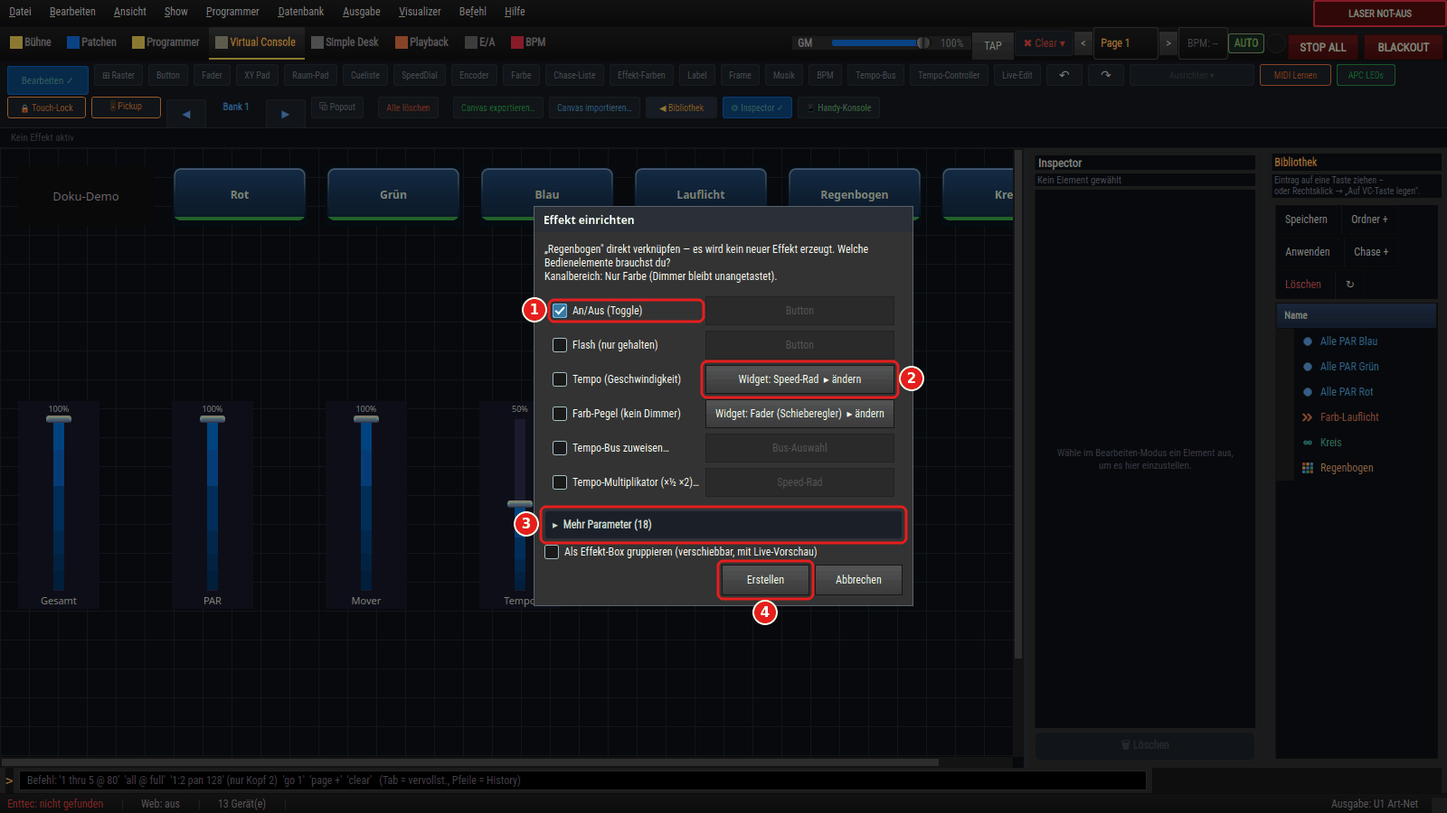
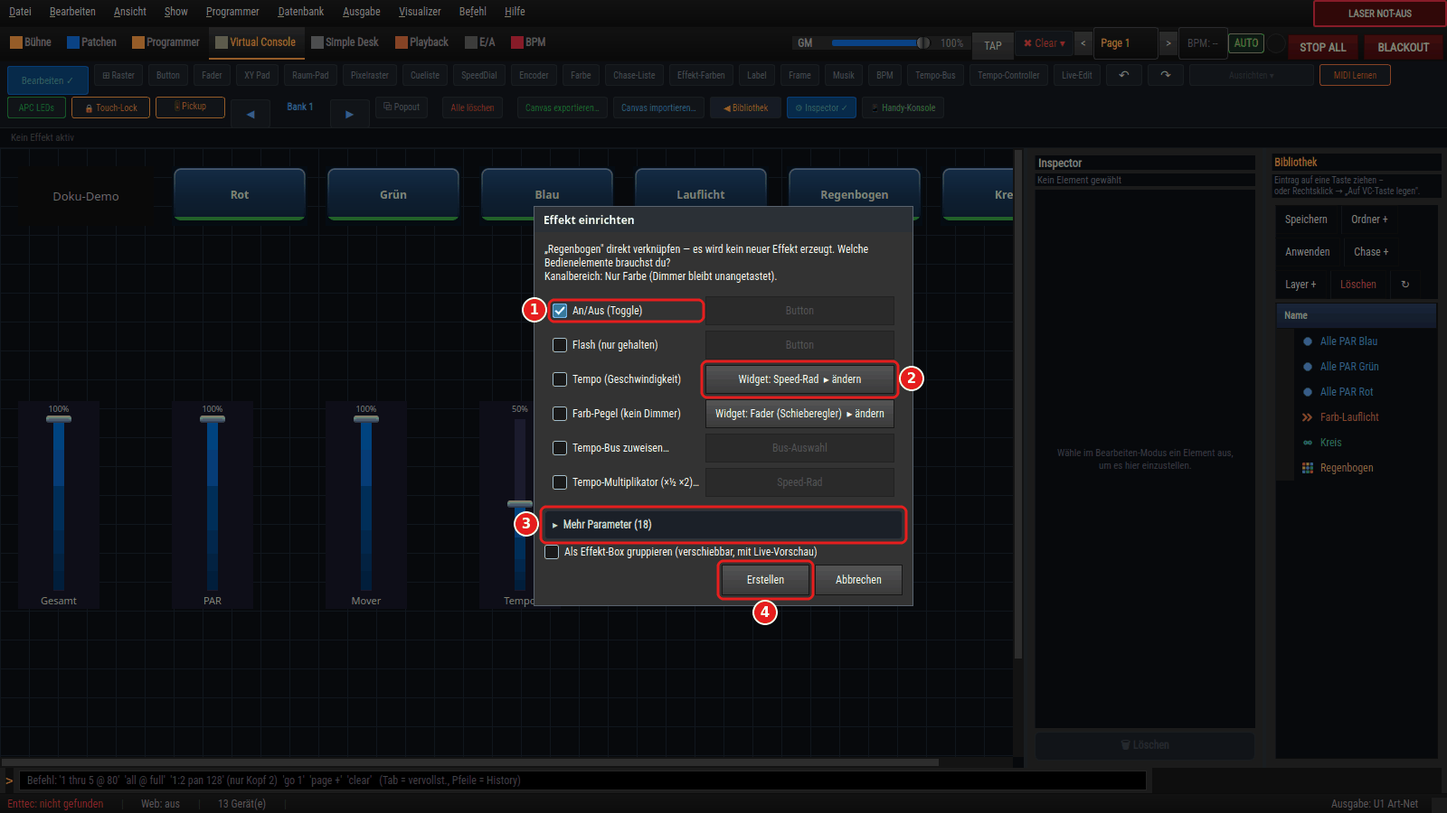
feat(doku): veraltete Anleitungsbilder gegen die heutige Oberflaeche abgeglichen (DOC-10)
- Renderer-Pruefung --alle: alle Szenen baubar; 10 Bilder mit echter
  UI-Aenderung neu gerendert (Toolbar-Knopf Pixelraster, WLED suchen /
  Matrix verteilen, Menue Befehl), Rauschen unter der Schwelle belassen
- 11 veraltete Handaufnahmen durch Renderer-Bilder ersetzt (Drop-Karte,
  Widget-Galerie, Konflikt-Karte, Button-Dialog, EFX-Editor, MIDI Teach),
  Altdateien entfernt, Bildtexte und Zitate nachgezogen
- neue Szene speed/05_tempo_speeds fuer das Tempo-Speeds-Panel
  (Bass 128, Drums 1/2, Lead 2x); Anleitung Speed um Auto-Sync ergaenzt
- Bericht docs/ANLEITUNGEN_AUDIT_2026-11-23.md mit Rest-Liste,
  Backlog-Fragment DOC-10 auf teils

diff --git a/tools/anleitungsbilder/szenen_speed.py b/tools/anleitungsbilder/szenen_speed.py
@@ -1,0 +1,86 @@
+"""DOC-10: Bilder fuer ``docs/anleitung_speed/`` (Speed-Dial, Tempo-Master).
+
+Neu erzeugen: ``venv/bin/python tools/anleitungsbilder.py speed``.
+
+Das Panel „Tempo-Speeds & Grand-Master“ war ein Handfoto vom 21.06.2026 und
+zeigte noch den Knopf „Aktualisieren“ unter der Bus-Tabelle (seit BPM-08
+entfallen) und keine Auto-Sync-Zeile. Die Szene legt genau die Busse an, die
+die Anleitung beschreibt — ``Bass`` (Master 128), ``Drums`` (Sub von Bass, ½)
+und ``Lead`` (Sub von Bass, 2×) — und raeumt sie danach wieder ab.
+"""
+from __future__ import annotations
+
+from anleitungsbilder.runner import Szene, SzenenFehler
+
+ZIEL = "docs/anleitung_speed/img"
+
+_BUSSE = ("Bass", "Drums", "Lead")
+
+
+def _mgr():
+    from src.core.engine.tempo_bus import get_tempo_bus_manager
+    return get_tempo_bus_manager()
+
+
+def _ansicht(ui):
+    view = getattr(ui.win, "_tempo_bus_view", None)
+    if view is None:
+        raise SzenenFehler("Tempo-Buses-Ansicht fehlt (BPM → Tempo-Buses)")
+    return view
+
+
+def _busse_anlegen(ui):
+    mgr = _mgr()
+    bass = mgr.ensure_bus("Bass")
+    bass.set_role("master")
+    bass.set_bpm(128.0)
+    for name, faktor in (("Drums", 0.5), ("Lead", 2.0)):
+        bus = mgr.ensure_bus(name)
+        bus.set_role("sub")
+        if not bus.set_parent(bass.bus_id):
+            raise SzenenFehler(f"{name} laesst sich nicht an Bass haengen")
+        bus.set_bus_multiplier(faktor)
+    view = _ansicht(ui)
+    view._refresh_speeds()
+    ui.pump(0.2)
+    # Die Tabelle zeigt nur rund fuenf Zeilen; die Busse A–D der Demo-Show
+    # stehen davor. Drums waehlen (fuellt die Editor-Zeile: Sub, folgt Bass,
+    # Faktor ½) und ans Ende rollen, damit Bass, Drums und Lead sichtbar sind.
+    tabelle = view._bus_table
+    for zeile in range(tabelle.rowCount()):
+        zelle = tabelle.item(zeile, 0)
+        if zelle is not None and zelle.text() == "Drums":
+            tabelle.selectRow(zeile)
+            break
+    else:
+        raise SzenenFehler("Bus „Drums“ fehlt in der Tabelle")
+    tabelle.scrollToBottom()
+    ui.pump(0.3)
+
+
+def _busse_entfernen(ui):
+    mgr = _mgr()
+    for name in reversed(_BUSSE):
+        if mgr.get(name) is not None:
+            mgr.remove_bus(name)
+    _ansicht(ui)._refresh_speeds()
+    ui.pump(0.1)
+
+
+def _panel(ui):
+    from PySide6.QtWidgets import QGroupBox
+    for box in _ansicht(ui).findChildren(QGroupBox):
+        if box.isVisible() and box.title().replace("&&", "&").startswith(
+                "Tempo-Speeds & Grand-Master"):
+            return box
+    raise SzenenFehler("Panel „Tempo-Speeds & Grand-Master“ nicht sichtbar")
+
+
+SZENEN = [
+    Szene("05_tempo_speeds", sektion="BPM", unterreiter="Tempo-Buses",
+          vorher=_busse_anlegen, ausschnitt=_panel, nachher=_busse_entfernen,
+          marken=[("Master anlegen", 1, "", "oben"),
+                  ("Übernehmen", 2, "", "oben")],
+          titel="Tempo-Speeds & Grand-Master: Bass (Master 128), Drums (½), "
+                "Lead (2×)"),
+]

diff --git a/docs/ANLEITUNGEN_AUDIT_2026-11-23.md b/docs/ANLEITUNGEN_AUDIT_2026-11-23.md
@@ -1,0 +1,114 @@
+# Anleitungs-Audit 2026-11-23 — veraltete Anleitungsbilder (DOC-10 Teil b)
+
+**Auftrag:** DOC-10 Teil (b): Anleitungsbilder gegen die heutige Oberfläche abgleichen,
+veraltete ersetzen, wo es sauber geht, den Rest als Liste festhalten.
+**Stand des Codes:** `main` vom 23.11.2026 (nach VCB-51 Pixelraster, OUT-82 DDP/WLED).
+
+## Bestand
+
+| Art | Anzahl | Wie geprüft |
+|---|---:|---|
+| Bilder unter `docs/` (ohne `_archiv/`) | 610 | — |
+| davon vom Renderer erzeugt (`bilder.json`, `tools/anleitungsbilder.py`) | 187 | `--alle --pruefen` in der Sandbox, abweichende Bilder neu gerendert und Pixel für Pixel verglichen |
+| davon Handaufnahmen, in einer Anleitung verlinkt | 246 | nach Ordner und Git-Datum sortiert, Stichproben gegen die frisch gerenderte Oberfläche |
+| davon Handaufnahmen, von keiner `.md` verlinkt | 177 | nur gezählt (siehe Ende) |
+
+**Live-Sichtung im abgeschotteten Fenster-Server (Xephyr :7):** Fenster-Server und App
+(Probelauf, Wegwerf-Datenordner, keine Ausgabe) starteten, die App blieb aber am Dialog
+„Testlizenz erforderlich" stehen. Die Lizenzdatei liegt nur im echten Datenordner, und der
+ist für diesen Auftrag tabu. Deshalb wurde stattdessen mit dem Renderer verglichen: Er baut
+dieselbe `MainWindow` mit denselben Widget-Klassen offscreen in der Sandbox auf. Für den
+Vergleich alt ↔ heute reicht das. Ob die beschriebenen Klickwege wirklich gehen (Robins
+Vorgabe vom 31.08.), prüft das nicht. Das bleibt für eine Runde mit Lizenz im Wegwerf-Ordner
+offen.
+
+## 1. Renderer-Bilder
+
+`venv/bin/python tools/anleitungsbilder.py --alle --pruefen`: **alle Szenen baubar**,
+108 Bilder „wie im Repo", **37 „weicht ab"**, die 3D-Szenen offscreen übersprungen (GPU).
+Die 37 wurden in einen Wegwerf-Ordner gerendert und Pixel für Pixel mit dem Repo-Stand
+verglichen. Die meisten Abweichungen liegen unter 0,1 % und betreffen nur das Leuchten
+von Lampen oder blinkende Taktanzeigen. Das ist **kein** neuer Inhalt, deshalb bleiben
+diese Bilder stehen (Regel des Werkzeugs: unter 0,05 % bleibt die alte Datei).
+
+**Echte Änderungen gab es nur hier, alle neu gerendert:**
+
+| Bild | Anleitung | Stand | Befund | erledigt/offen |
+|---|---|---|---|---|
+| `anleitung_vc/img/02_bearbeiten_modus.png` | ANLEITUNG_VC | 17.11. | neuer Toolbar-Knopf **„Pixelraster"** (VCB-51), Knopfreihe verschoben | erledigt (neu gerendert) |
+| `anleitung_vc/img/03_drop_karte.png` | ANLEITUNG_VC | 17.11. | Toolbar wie oben | erledigt |
+| `anleitung_vc/img/04_widget_galerie.png` | ANLEITUNG_VC | 17.11. | Toolbar wie oben | erledigt |
+| `anleitung_vc/img/05_konflikt_karte.png` | ANLEITUNG_VC | 17.11. | Toolbar wie oben | erledigt |
+| `anleitung_vc/img/06_button_einstellungen.png` | ANLEITUNG_VC | 17.11. | Toolbar wie oben | erledigt |
+| `anleitung_vc/img/09_midi_teach.png` | ANLEITUNG_VC | 17.11. | Toolbar wie oben, Bibliothek mit „Layer +" | erledigt |
+| `anleitung_buehnen_show/img_effekte/19_vc_button.png` | Bühnen-Show, Effekte | 17.11. | Toolbar wie oben | erledigt |
+| `anleitung_ausgabe_einrichten/img/05_universen.png` | Ausgabe einrichten | 17.11. | Ausgang „DDP (WLED)", Knöpfe **„WLED suchen"** und **„Matrix verteilen…"** (OUT-82) | erledigt |
+| `anleitung_erste_schritte/img/11_beenden.png` | Erste Schritte | 17.11. | Menü zeigte noch „Command" statt „Befehl", STOP ALL/BLACKOUT alte Optik | erledigt |
+| `anleitung_gruppen_matrizen/img/05_matrizen_zusammenlegen.png` | Gruppen & Matrizen | 17.11. | wie `11_beenden` | erledigt |
+
+Die Texte dieser Anleitungen beschreiben die neuen Knöpfe nicht. Das gehört zu den
+Items, die sie eingeführt haben (VCB-51, OUT-82), nicht zu diesem Bildabgleich.
+
+## 2. Handaufnahmen: ersetzt
+
+Alle Ersetzungen zeigen jetzt auf **Renderer-Bilder**. Diese Bilder rendert das Werkzeug
+bei jeder UI-Änderung neu, sodass sie nicht wieder veralten. Die alten Dateien wurden
+entfernt, weil nichts sie mehr verlinkt.
+
+| Bild (alt) | Anleitung | Stand | Befund | erledigt/offen |
+|---|---|---|---|---|
+| `anleitung_vc_elemente/img/04_drop_karte.png` | VC-Elemente | 21.06. | Zeilen „Helligkeit"/„Farben aendern" und „Cancel", Hinweistext alt, **Zeile „Als Effekt-Box gruppieren" fehlt** | erledigt → `anleitung_vc/img/03_drop_karte.png`; Text ergänzt (Zeilenname je Effekt, Effekt-Box) |
+| `anleitung_vc_elemente/img/05_widget_galerie.png` | VC-Elemente | 21.06. | „Cancel" statt „Abbrechen", alte Schrift | erledigt → `anleitung_vc/img/04_widget_galerie.png` |
+| `anleitung_vc_elemente/img/06_konflikt_karte.png` | VC-Elemente | 21.06. | „Cancel", alte Optik | erledigt → `anleitung_vc/img/05_konflikt_karte.png` |
+| `anleitung_vc_workflow/img/05_button_dialog.png` | VC-Workflow | 21.06. | Dialog mit „— MIDI-Bindung —", ohne „Ziel und Verhalten" | erledigt → `anleitung_vc/img/06_button_einstellungen.png` |
+| `anleitung_vc_workflow/img/17_drop_karte.png` | VC-Workflow | 21.06. | wie Drop-Karte oben | erledigt → `anleitung_vc/img/03_drop_karte.png` |
+| `anleitung_vc_workflow/img/18_widget_galerie.png` | VC-Workflow | 21.06. | wie Galerie oben | erledigt → `anleitung_vc/img/04_widget_galerie.png` |
+| `tutorial_matrix/img/17_drop_karte.png` | Tutorial Lichtshow | 21.06. | wie Drop-Karte oben; Text zitierte die alte Frage „… was soll dieser Effekt können?" | erledigt → `anleitung_vc/img/03_drop_karte.png`; Zitat auf den heutigen Hinweistext |
+| `anleitung_efx/img/01_efx_editor.png` | EFX, EFFEKTE.md | 21.06. | unscharfer Ausschnitt, abgeschnittene Knöpfe („Nm", „Sta"), alte Optik | erledigt → `anleitung_buehnen_show/img_effekte/06_efx_form.png`; Bildtext angepasst |
+| `anleitung_apc_mapping/img/01_midi_teach.png` | APC-Mapping | 21.06. | alter Hinweistext („einen Fader bewegen"), graue Pads, „Cancel" | erledigt → `anleitung_vc/img/09_midi_teach.png` |
+| `anleitung_speed/panel.png` | Speed | 21.06. | Knopf „Aktualisieren" (seit BPM-08 weg), **keine Auto-Sync-Zeile** | erledigt → **neue Renderer-Szene** `speed/05_tempo_speeds` (`tools/anleitungsbilder/szenen_speed.py`: Bass 128, Drums ½, Lead 2×); Text um Auto-Sync ergänzt |
+| `anleitung_speed/img/04_konflikt_karte.png` | Speed | 21.06. | wie Konflikt-Karte oben | erledigt → `anleitung_vc/img/05_konflikt_karte.png` |
+
+## 3. Handaufnahmen: Rest (offen)
+
+„Stand" ist das letzte Git-Datum der Bilder im Ordner. Als **veraltet** gilt ein Bild, wenn
+eine Stichprobe eine sichtbare Abweichung von der heutigen Oberfläche zeigte. **Vermutlich
+veraltet** heißt: Das Bild stammt aus der Zeit vor VC3D-01 (14.07., plastische Tasten) bzw.
+vor der Menü-Umbenennung „Command" → „Befehl", wurde aber nicht einzeln angesehen.
+
+| Bilder | Anleitung | Stand | Befund | erledigt/offen |
+|---|---|---|---|---|
+| `anleitung_vc_smartbuild/04_drop_card_simple_crop.png`, `05_drop_card_subforms_crop.png`, `06_widget_gallery_crop.png` | VC Smart-Build | 21.06. | **veraltet**: Zeile „Helligkeit" statt „Dimmer-Pegel", „Cancel", keine Effekt-Box-Zeile, kein Hinweistext. Die Karten gehören zu bestimmten Effekten (Szene ohne Live-Parameter, Dimmer-Matrix), die die Doku-Demo nicht hat | offen: Renderer-Szene mit eigener Dimmer-Matrix |
+| `anleitung_vc_smartbuild/01_…`, `02_…`, `03_…` | VC Smart-Build | 21.06.–21.07. | vermutlich veraltet (alte VC-Optik) | offen |
+| `anleitung_vc_workflow/img/` (15 übrige) | VC-Workflow | 21.06.–30.09. | **veraltet**: `04_bearbeiten_toolbar.png` ohne „Pixelraster"; die Bilder vom 21.06. zeigen flache Tasten einer archivierten Show | offen: braucht eine nachgebaute Workflow-Show |
+| `anleitung_vc_elemente/img/01_alle_elemente.png`, `02_toolbar_alle_knoepfe.png` | VC-Elemente | 20./21.07. | **veraltet**: Toolbar ohne „Pixelraster" (der Index zählt 16 Toolbar-Typen, Pixelraster kommt dazu) | offen |
+| `anleitung_vc_widgets/img/` (42) | VC-Widgets | 21.06.–02.10. | Bereich am 03.08./31.08. abgeglichen; Stichprobe `dialog_VCButton.png`: Zeile **„LED am Pult zeigt den Zustand"** fehlt, sonst aktuell. Ein Pixelraster-Widget fehlt ganz | offen (gering), Pixelraster-Kapitel gehört zu VCB-51 |
+| `anleitung_ablaeufe/img/` (3) | Abläufe mischen | 21.06. | **veraltet**: flache Tasten, abgeschnittene Bibliothek; Show nicht im Repo | offen |
+| `anleitung_hochzeit_komplett/img/` (12 inkl. `mini_gruenes_lauflicht/`) | Hochzeit komplett | 29.06. | vermutlich veraltet (vor VC3D-01); Show nicht im Repo | offen |
+| `anleitung_test123_tempo/img/` (7), `anleitung_colorfade_vc/img/` (3), `anleitung_farb_fx_vc/img/` (1), `anleitung_matrix_effekte/img/` (2), `anleitung_moving_heads/img/` (2), `anleitung_farbchase/` (5), `anleitung_dimmermatrix/` Handbilder (3), `anleitung_farbmatrix/img/` (1) | je Ordner | 21.–28.06. | vermutlich veraltet (alte VC- bzw. Editor-Optik, archivierte Shows) | offen |
+| `anleitung_patch_gruppen/img/01_patch.png`, `02_gruppen.png` | Patch & Gruppen | 21.06. | **veraltet**: Patch-Toolbar ohne „Bearbeiten…", „Mit Offset kopieren…", „Klonen…", „Tabellen-Import". Bild und Text beschreiben eine bestimmte Show (Adressen) | offen |
+| `anleitung_speed/dial_master.png`, `dial_sub.png` | Speed | 21.06. | vermutlich veraltet (vor VC3D-01) | offen |
+| `anleitung_bpm_manager/img/` (11) | BPM-Manager, BPM-Generator | 16.09.–02.10. | Stichprobe `tempo_buses.png`: Inhalt aktuell, **Kopfzeile alt** (Menü „Command", BPM „127,6", kein LASER NOT-AUS) | offen (gering) |
+| `_walkthrough/multiplier/` (8) | Multiplikator-Dial | 21.06.–21.07. | vermutlich veraltet (alte Optik) | offen |
+| `images/` (11) | APC-Seitenübersicht, Neue Demo | 08.–15.06. | vermutlich veraltet; ältester Bestand | offen |
+| `tutorial_matrix/gif/`, `web/` (24) | Tutorial Lichtshow, EFFEKTE, EFX, Farbmatrix | 15.06.–21.07. | vermutlich veraltet; `web/` sind Browser-Aufnahmen der Web-Oberfläche | offen |
+| `anleitung_komplettshow_2026/` (26) | Komplettshow | 30.09. (ein GIF 21.06.) | nach den Oktober-Änderungen nicht einzeln geprüft; Kopfzeilen-Drift möglich | offen (gering) |
+| `anleitung_grosse_demo_2026/img/` (7), `anleitung_testshow_liveedit/bilder/` (7), `anleitung_programmer/`, `anleitung_speed_bpm/`, `anleitung_spider/` (je 1) | je Ordner | 01.07.–30.09. | nicht einzeln geprüft | offen |
+| `anleitung_geraete_bedienen/img/` (6), `anleitung_einmessen/img/` (1), `anleitung_fixture_generator/img/` (1), `anleitung_laser/` (3) | je Ordner | 28.09.–15.10. | jung, nicht einzeln geprüft | offen (gering) |
+| `anleitung_3d_geraete_ohne_rgb/img/` (4), `anleitung_3d_visualizer_2026/` (1), `img/fixture_gallery/` (13) | 3D | 12.07.–05.10. | 3D/WebGL: offscreen nicht darstellbar, nur am echten Bildschirm prüfbar | offen |
+
+## 4. Nicht verlinkte Bilder
+
+177 Handaufnahmen verlinkt keine `.md` (zum Beispiel Arbeitsstände, Rohaufnahmen und
+Bilder, die nur ein HTML einbindet). Sie wurden nicht gelöscht, weil manche aus HTML-Seiten
+oder Skripten heraus benutzt werden könnten. Ein Aufräumen wäre ein eigener Schritt.
+
+## Ergebnis
+
+- Renderer-Bilder: 10 mit echter Änderung neu gerendert. Die übrigen 27 Abweichungen sind
+  Rauschen, alle Szenen sind baubar.
+- Handaufnahmen: 11 veraltete Bilder ersetzt, alle durch Renderer-Bilder, eines davon über
+  eine neue Szene. 11 Altdateien entfernt.
+- Offen (Abschnitt 3): rund 230 Handaufnahmen. Schwerpunkt sind Ordner aus der Zeit vor
+  dem 14.07., deren Shows nicht im Repo liegen. Sie lassen sich nur über nachgebaute
+  Renderer-Shows oder eine Live-Runde mit Lizenz im Wegwerf-Ordner erneuern.

diff --git a/docs/anleitung_vc_elemente/ANLEITUNG_VC_ELEMENTE.md b/docs/anleitung_vc_elemente/ANLEITUNG_VC_ELEMENTE.md
@@ -49,18 +49,21 @@ baut dir dann das passende Bedien-Element praktisch von selbst.
 
 - **Drop auf eine freie Stelle** → es öffnet sich die Karte **„Effekt einrichten"**
   (Fenster). Sie zeigt den Hinweis *„… direkt verknüpfen — es wird kein neuer Effekt erzeugt. Welche Bedienelemente brauchst du?"* und **je Aspekt eine
-  ankreuzbare Zeile** („An/Aus (Toggle)", „Tempo (Geschwindigkeit)", „Helligkeit",
+  ankreuzbare Zeile** („An/Aus (Toggle)", „Tempo (Geschwindigkeit)", „Helligkeit" — je nach
+  Effekt „Dimmer-Pegel" oder bei einer RGB-Matrix „Farb-Pegel (kein Dimmer)" —,
   „Farben ändern…", „Bewegung (XY-Feld)…", „Tempo-Bus zuweisen…",
   „Tempo-Multiplikator (×½ ×2)…" …). „An/Aus (Toggle)" ist vorangekreuzt. Pro Zeile gibt es — wo mehrere Bedien-Typen
   passen — den Knopf **„Widget: … ▸ ändern"**, der die **grafische Widget-Galerie** öffnet
   (Element per Bild wählen statt aus einer Liste). Ein Klick auf **„Erstellen"** legt für jedes Häkchen ein fertig
   verdrahtetes Widget an — alles in **einem** Undo-Schritt. (Selten gebrauchte Parameter
   liegen im **zugeklappten** Bereich **„Mehr Parameter (N)"**; in der Galerie wählst du eine
-  Kachel und bestätigst mit **OK** oder Doppelklick.)
+  Kachel und bestätigst mit **OK** oder Doppelklick. Unter den Zeilen steht außerdem
+  **„Als Effekt-Box gruppieren (verschiebbar, mit Live-Vorschau)"**: angekreuzt landen alle
+  erzeugten Elemente in einem gemeinsamen, verschiebbaren Kasten statt einzeln auf der Canvas.)
 
-  ![Drop-Karte „Effekt einrichten"](img/04_drop_karte.png)
+  ![Drop-Karte „Effekt einrichten"](../anleitung_vc/img/03_drop_karte.png)
 
-  ![Grafische Widget-Galerie](img/05_widget_galerie.png)
+  ![Grafische Widget-Galerie](../anleitung_vc/img/04_widget_galerie.png)
 
 - **Drop auf einen schon belegten Regler** → es erscheint die **Konflikt-Karte**
   „Regler ist schon belegt". Sie sagt dir, was der Regler bereits steuert, und bietet drei
@@ -68,7 +71,7 @@ baut dir dann das passende Bedien-Element praktisch von selbst.
   (beide Effekte am selben Regler, eine Gruppe / ein Tempo) oder **„Neues Widget daneben"**
   (lässt den Regler in Ruhe, legt ein eigenes Element an). Abbrechen lässt alles unverändert.
 
-  ![Konflikt-Karte „Regler ist schon belegt"](img/06_konflikt_karte.png)
+  ![Konflikt-Karte „Regler ist schon belegt"](../anleitung_vc/img/05_konflikt_karte.png)
 
 ### Rechtsklick-Menü (Kontextmenü)
 

diff --git a/backlog.d/DOC-10.md b/backlog.d/DOC-10.md
@@ -1,5 +1,9 @@
 ID: DOC-10
-Status: todo
-Status-Notiz: zurueck auf todo (22.11.2026): Teil (b) braucht keinen Menschen mehr — Live-Sichtung ueber den abgeschotteten Fenster-Server (Xephyr) ist moeglich; Sitzung A arbeitet ihn mit Agenten ab
+Status: teils
+Status-Notiz: Teil (b) Runde 23.11.2026: 10 Renderer-Bilder mit echter UI-Aenderung neu gerendert, 11 veraltete Handaufnahmen durch Renderer-Bilder ersetzt (neue Szene speed/05_tempo_speeds); Rest-Liste in docs/ANLEITUNGEN_AUDIT_2026-11-23.md
 
-Teil (b) — veraltete Anleitungsbilder gegen die heutige Oberflaeche — wurde als „braucht eine Sitzung mit Bildschirm“ zurueckgestellt. Seit QA-LIVE (17.11.2026) gibt es dafuer den abgeschotteten Fenster-Server mit echter App und echten Eingaben. Entscheidung (22.11.2026): A uebernimmt den Rest ohne den Projektinhaber.
+**Runde 23.11.2026 (Teil b):** Bestand 610 Bilder, 187 Renderer, 246 verlinkte Handaufnahmen, 177 unverlinkte. `tools/anleitungsbilder.py --alle --pruefen`: alle Szenen baubar, 37 weichen ab, davon 10 mit echtem neuem Inhalt (Toolbar-Knopf „Pixelraster“ VCB-51, „WLED suchen“/„Matrix verteilen…“ OUT-82, Menue „Befehl“) und neu gerendert; der Rest ist Leucht-/Takt-Rauschen. Ersetzt (Verweis auf Renderer-Bild, Altdatei entfernt): Drop-Karte, Widget-Galerie, Konflikt-Karte in VC-Elemente, VC-Workflow, Tutorial Lichtshow und Speed; Button-Dialog in VC-Workflow; EFX-Editor in EFX/EFFEKTE; MIDI Teach in APC-Mapping; Tempo-Speeds-Panel in Speed ueber die neue Szene `tools/anleitungsbilder/szenen_speed.py`.
+
+**Live-Sichtung:** Xephyr :7 und App als Probelauf liefen, die App bleibt aber ohne Lizenzdatei am Testlizenz-Dialog stehen; die Lizenz liegt nur im echten Datenordner. Abgleich deshalb ueber den Renderer (gleiche MainWindow offscreen in der Sandbox). Klickwege selbst sind damit nicht geprueft.
+
+**Offen (Rest-Liste im Audit, Abschnitt 3):** VC-Smart-Build-Karten (eigene Renderer-Szene mit Dimmer-Matrix noetig), VC-Workflow- und VC-Elemente-Bilder ohne „Pixelraster“, Patch-&-Gruppen-Bilder (alte Patch-Toolbar), Ordner aus der Zeit vor dem 14.07. mit archivierten Shows (Ablaeufe, Hochzeit, Test123, Colorfade, Farbchase, Matrix-Effekte, Moving Heads, tutorial_matrix, images), Kopfzeilen-Drift in BPM-Manager, 3D-Bilder nur am echten Bildschirm; Live-Runde mit Lizenz im Wegwerf-Ordner.

diff --git a/docs/anleitung_speed/ANLEITUNG_SPEED.md b/docs/anleitung_speed/ANLEITUNG_SPEED.md
@@ -53,17 +53,21 @@ BPM-Anzeige — das entspricht dem „Erscheinungsbild" in QLC+).
 
 Im **BPM**-Tab, Sub-Tab **„Tempo-Buses"**, gibt es das Panel **„Tempo-Speeds & Grand-Master"**:
 
-![Tempo-Speeds & Grand-Master Panel](panel.png)
+![Tempo-Speeds & Grand-Master Panel: Bass (Master 128), Drums (½ → 64), Lead (2× → 256); Drums ist gewählt](img/05_tempo_speeds.png)
 
 - **Grand-Master-Zeile** (oben): **scharf** schalten, **BPM** setzen, **Tap** —
   der Status rechts zeigt `aus` / `scharf`.
+- **Auto-Sync / Jetzt synchronisieren** (Zeile darunter): Auto-Sync hält alle Tempo-Buses
+  taktgleich; „Jetzt synchronisieren“ setzt bei allen Buses einmal den Downbeat neu.
 - **Bus-Tabelle:** zeigt alle Speeds (Default/Sound-BPM zuerst) mit
   **Rolle / Folgt / Faktor / BPM**. Im Bild: `Bass` (Master 128),
-  `Drums` (Sub von Bass, `½` → 64), `Lead` (Sub von Bass, `×2` → 256).
-- **Master anlegen / Löschen** (Name eingeben → „Master anlegen"). Es lassen
+  `Drums` (Sub von Bass, `½` → 64), `Lead` (Sub von Bass, `×2` → 256). Die Busse
+  `A`–`D` gibt es in jeder Show; die Tabelle rollt, wenn mehr Busse da sind.
+- **Master anlegen / Löschen** (Name eingeben → „Master anlegen“, ①). Es lassen
   sich beliebig viele Tap-Master anlegen.
 - **Editor-Zeile:** den gewählten Bus auf **Master/Sub** stellen, den **Master,
-  dem gefolgt wird**, und den **Faktor** wählen → **Übernehmen**.
+  dem gefolgt wird**, und den **Faktor** wählen → **Übernehmen** (②). Im Bild ist `Drums`
+  gewählt: Rolle Sub, folgt Bass, Faktor ½.
 
 So läuft es live im Programm (der Default-Bus folgt hier dem Sound):
 
@@ -88,7 +92,7 @@ Effekte einfach **auf den Speed-Dial ziehen**:
   - **Neues Widget daneben** — lässt den Regler in Ruhe und legt ein eigenes
     Bedien-Element daneben an.
 
-  ![Konflikt-Karte „Regler ist schon belegt"](img/04_konflikt_karte.png)
+  ![Konflikt-Karte „Regler ist schon belegt"](../anleitung_vc/img/05_konflikt_karte.png)
 
 Im Dialog **„Speed Dial Einstellungen"** lässt sich in der **„Steuert"**-Liste je
 gekoppeltem Effekt wählen, **welcher Parameter** gesteuert wird (je Zeile eine

diff --git a/docs/anleitung_vc_workflow/ANLEITUNG_VC_WORKFLOW.md b/docs/anleitung_vc_workflow/ANLEITUNG_VC_WORKFLOW.md
@@ -92,9 +92,9 @@ verdrahteten Knopfes führt LightOS dann durch den Aufbau:
   (beide Effekte am selben Regler, eine Gruppe/ein Tempo) oder **„Neues Widget daneben"**
   (lässt den Regler in Ruhe, legt ein eigenes Bedien-Element an).
 
-![Drop-Karte „Effekt einrichten"](img/17_drop_karte.png)
+![Drop-Karte „Effekt einrichten"](../anleitung_vc/img/03_drop_karte.png)
 
-![Widget-Galerie](img/18_widget_galerie.png)
+![Widget-Galerie](../anleitung_vc/img/04_widget_galerie.png)
 
 > Der in den folgenden Abschnitten gezeigte Weg über die **Bearbeiten-Toolbar** und das
 > **Doppelklick**-Einstellen bleibt weiterhin gültig — als **manueller Alternativweg**,
@@ -108,7 +108,7 @@ verdrahteten Knopfes führt LightOS dann durch den Aufbau:
    Canvas-Mitte. Bei Bedarf an die gewünschte Stelle **ziehen**.
 2. Die neue Taste **doppelklicken** → Dialog **„Button Einstellungen"**.
 
-![Button-Dialog](img/05_button_dialog.png)
+![Button-Dialog](../anleitung_vc/img/06_button_einstellungen.png)
 
 3. Feld **„Aktion:"** aufklappen und **„Funktion an/aus"** wählen (das ist der
    Umschalter — einmal drücken = an, nochmal = aus).

diff --git a/docs/tutorial_matrix/TUTORIAL_LICHTSHOW.md b/docs/tutorial_matrix/TUTORIAL_LICHTSHOW.md
@@ -251,13 +251,14 @@ leere Fläche** der Konsole ziehen – oder **Rechtsklick → „➡ Auf VC‑Ta
 
 **Was beim Ziehen passiert:** Lässt du den Effekt auf einer **leeren** Stelle
 (leeres Canvas/Pad) los, öffnet sich die **Drop‑Karte „Effekt einrichten"**. Sie
-fragt *„… — was soll dieser Effekt können?"* und zeigt je Aspekt eine
+fragt *„… direkt verknüpfen — es wird kein neuer Effekt erzeugt. Welche
+Bedienelemente brauchst du?"* und zeigt je Aspekt eine
 **Ankreuz‑Zeile**. **„An/Aus" (Toggle) ist bereits vorangekreuzt** – ein Klick
 auf **`Erstellen`** liefert also genau das **einfache An/Aus‑Pad**. Setzt du
 weitere Häkchen (z. B. Tempo, Helligkeit, Farbe), entstehen in **einem** Schritt
 mehrere fertig verdrahtete Widgets.
 
-![Drop‑Karte „Effekt einrichten"](img/17_drop_karte.png)
+![Drop‑Karte „Effekt einrichten"](../anleitung_vc/img/03_drop_karte.png)
 
 - **Widget‑Galerie:** Hat ein Aspekt mehrere passende Bedien‑Elemente, steht in
   der Zeile **„Widget: … ▸ ändern"** – ein Klick öffnet die grafische

diff --git a/docs/anleitung_efx/ANLEITUNG_EFX.md b/docs/anleitung_efx/ANLEITUNG_EFX.md
@@ -54,7 +54,7 @@ Sind **nur Spider** ausgewählt, ersetzt der Editor *Form & Geometrie* durch **B
 (Spider)** (Wippe, Welle, Zacken, Flackern, Puls) mit **Schwung (Tilt-Hub)**, **Mitte (Tilt)** und
 **Welle (Versatz)**.
 
-![EFX-Editor (Algorithmus Circle, Pan/Tilt-Hub)](img/01_efx_editor.png)
+![EFX-Editor im Programmer, Reiter EFX: Name, Algorithmus, Breite/Höhe (Pan-/Tilt-Hub), Zentrum](../anleitung_buehnen_show/img_effekte/06_efx_form.png)
 
 > Merke: Im Programmer zeigt die EFX-Liste nur die Effekte der **aktiven Gruppe**; ein
 > gespeicherter Effekt gehört zu der Gruppe, die beim **💾 Speichern** aktiv war. Einen

diff --git a/docs/EFFEKTE.md b/docs/EFFEKTE.md
@@ -81,7 +81,7 @@ Vorschau der Bahn. Ein **neuer EFX nimmt die Programmer-Auswahl** (ein
 gespeicherter nur über **Auswahl übernehmen**) — erst die Gruppe
 (z. B. Moving Heads) wählen, dann den EFX.
 
-![EFX-Editor (Algorithmus Circle, Pan/Tilt-Hub)](anleitung_efx/img/01_efx_editor.png)
+![EFX-Editor im Programmer, Reiter EFX: Name, Algorithmus, Breite/Höhe (Pan-/Tilt-Hub), Zentrum](anleitung_buehnen_show/img_effekte/06_efx_form.png)
 
 1. **+ Neu** → EFX anlegen, **Name** vergeben.
 2. **Algorithmus** wählen (Dropdown).

diff --git a/docs/anleitung_apc_mapping/ANLEITUNG_APC.md b/docs/anleitung_apc_mapping/ANLEITUNG_APC.md
@@ -40,7 +40,7 @@ Die Bindung wird **mit der Show** gespeichert.
 Im **Bearbeiten**-Modus das Widget **rechtsklicken → „🎹 MIDI Lernen..."**. Es öffnet sich ein Abbild
 der APC mini:
 
-![Lern-Dialog mit APC-Abbild](img/01_midi_teach.png)
+![Lern-Dialog mit APC-Abbild](../anleitung_vc/img/09_midi_teach.png)
 
 - Entweder am Gerät die Taste/den Fader **betätigen** (das Element leuchtet im Bild auf),
 - **oder** das Element im Bild direkt **anklicken** — das funktioniert **auch ohne angeschlossene APC**.
